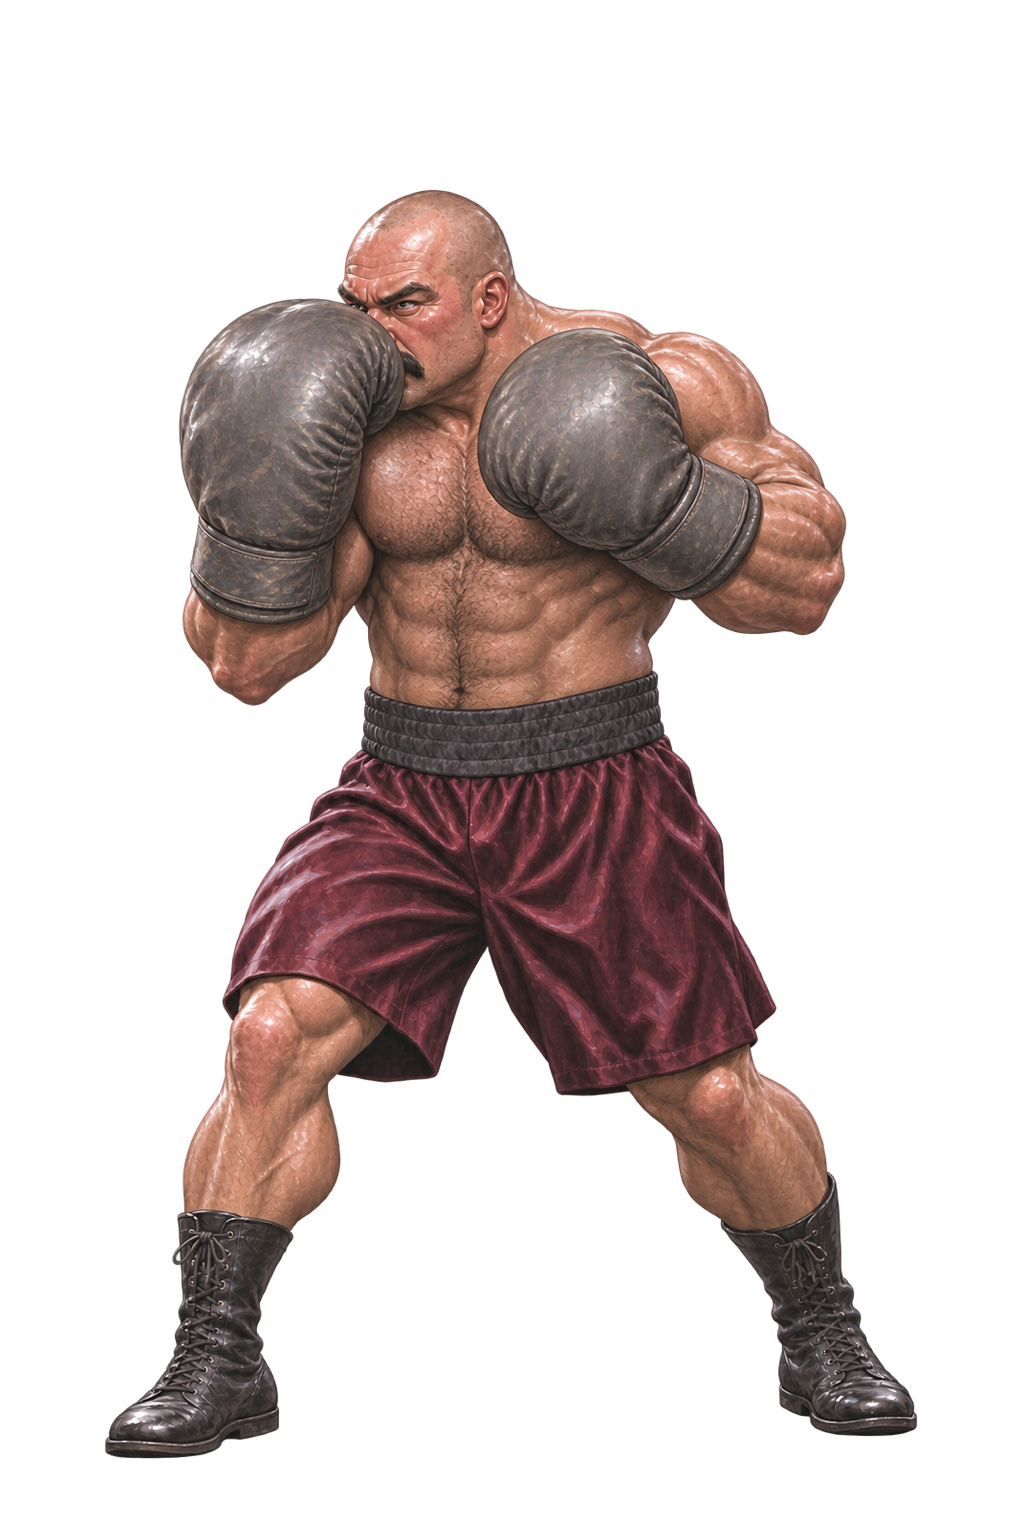
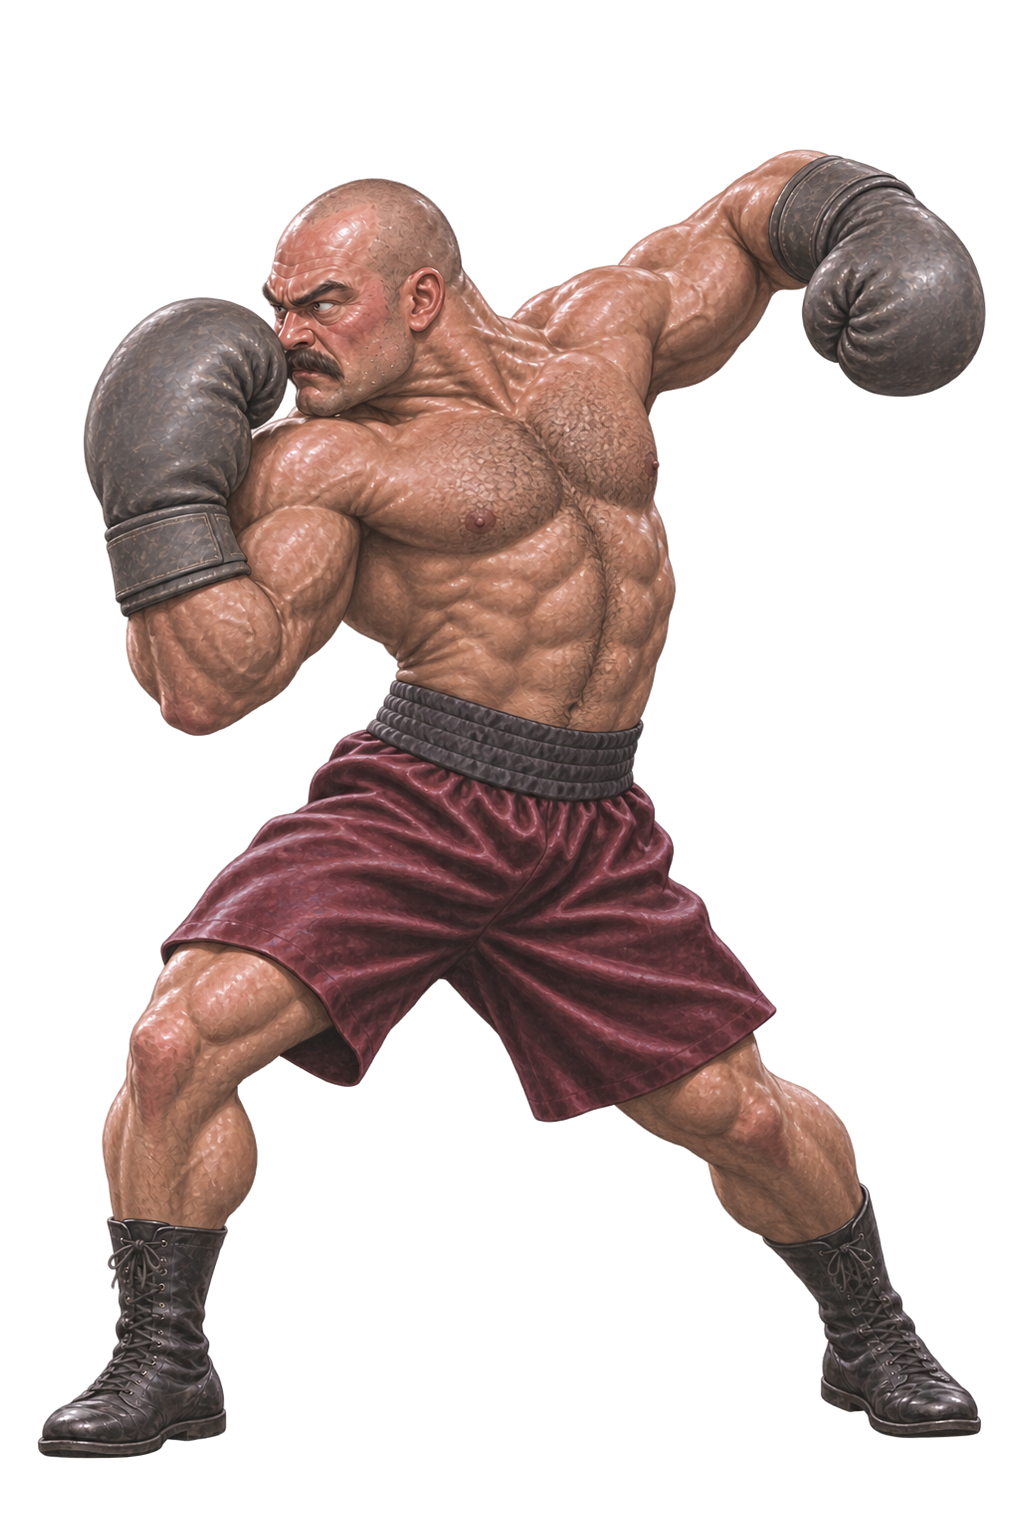
그레고르 공격 예고와 더 헬멧 달아나기 포즈 재생성, 기획서에 M2 반영

diff --git a/assets/prompts_m2_fix.md b/assets/prompts_m2_fix.md
@@ -1,0 +1,46 @@
+# 박치기 챔피언 상대 포즈 교정
+
+TASK 0092-headbutt-m2-fix
+
+`image-creator`의 내장 이미지 생성 도구에서 투명 배경을 지정해 기존 포즈를 각각 한 번 재생성했다. 생성본의 가장자리 알파를 정리하고 인물 비율을 유지하며 `idle.png`의 인물 높이 1310px와 하단 여백 77px에 맞췄다.
+
+| 파일 | 판정 | 재생성 | 확인 사항 |
+| --- | --- | ---: | --- |
+| `assets/char/gregor/telegraph_high.png` | 통과 | 1 | 왼쪽 글러브가 얼굴 앞을 가드하고 오른쪽 글러브가 어깨 뒤로 크게 빠진다. 축소 실루엣에서도 대기 자세와 구별된다. |
+| `assets/char/helmet/retreat.png` | 통과 | 1 | 오른쪽으로 달리면서 왼쪽을 돌아보는 자세를 유지한다. 글자 없는 월계수 장식 금색 벨트, 금색 헬멧, 흰 가운이 다른 포즈와 일치한다. |
+
+`style-reference-sheet.png`는 그림체 참조를 묶은 임시 이미지다. 위쪽 왼쪽은 아저씨 대기 자세, 위쪽 오른쪽은 곽두팔 빈틈 자세, 아래는 동네 체육관 배경이다. 더 헬멧의 첫 번째 참조는 교체 전 `retreat.png`였다.
+
+## `assets/char/gregor/telegraph_high.png`
+
+```text
+Paint one full-body fighting-game sprite of Gregor from references 1–3. Preserve his shaved head, thick dark mustache, massive bare torso, oversized weathered gray leather boxing gloves, burgundy trunks with a charcoal waistband, and black lace-up boxing boots.
+
+Show an exaggerated high-punch wind-up in a left-facing three-quarter side view. Keep his anatomical left glove up in front of his face, toward screen left. Twist his upper body back toward screen right against a planted stance. Pull his right elbow far out to screen right and cock the bent right glove well behind his shoulder, clear of the torso outline at shoulder height. Leave visible space between the cocked glove and his head. Keep his eyes and hips aimed left and let his stern face and mustache show beside the guard glove. The silhouette should read immediately as one glove guarding forward and one drawn far back to strike.
+
+Match the semi-realistic comic painting, visible brushwork, slightly exaggerated proportions, believable materials, and hard sports broadcast lighting of the references. Fit the whole figure on a true transparent 1024 × 1536 PNG canvas, with character height matching the idle and the lowest sole about 5% above the bottom. Keep open areas fully transparent, with no floor, shadow, lettering, logos, watermarks, or effect lines.
+
+Input images:
+1. assets/char/gregor/idle.png — exact character identity, costume, proportions, and scale.
+2. assets/char/gregor/attack_high.png — facial features, gloves, and left-facing attack orientation.
+3. assets/char/gregor/stun.png — unobstructed face, shaved head, mustache, and anatomy.
+4. assets/char/gwak/telegraph_high.png — painted style and exaggerated rear-arm wind-up silhouette.
+5. style-reference-sheet.png — assets/char/ajeossi/idle.png, assets/char/gwak/stun.png, and assets/bg/dong_gym.jpg for brushwork, materials, and lighting only.
+```
+
+## `assets/char/helmet/retreat.png`
+
+```text
+Edit the first sprite as the exact same full-body The Helmet. Preserve the three-quarter rear running pose, empty pumping hands, and wind-swept robe. His back stays toward the viewer as his torso, hips, and boots flee toward screen right. Only his helmet turns back toward screen left, with the intact opaque black visor visible. Match the gold full-face helmet, white gold-trimmed robe, and white gold-trimmed boots to references 2 and 3.
+
+Replace the visible brown waist band with the large blank gold championship belt in references 2 and 3. Show the same hammered gold center medallion with its raised laurel border foreshortened around the forward hip. Wrap broad hammered gold side plates across the visible waist so the belt reads clearly as gold in this rear view. Keep the belt fitted to the running figure and leave all plates free of lettering and logos.
+
+Match the references' semi-realistic comic painting, visible brushwork, believable materials, and hard sports broadcast lighting. Fit the entire figure in a true transparent 1024 × 1536 portrait PNG, close to idle height with the lowest boot sole about 5% above the bottom. Keep open areas fully transparent, with no floor, shadow, text, watermarks, or effect lines.
+
+Input images:
+1. assets/char/helmet/retreat.png — exact rear running pose, viewpoint, empty hands, and silhouette to preserve.
+2. assets/char/helmet/idle.png — exact character, gold championship belt, helmet and visor, white robe, boots, and scale.
+3. assets/char/helmet/telegraph_high.png — gold championship belt, helmet and visor, and white robe continuity.
+4. assets/char/gwak/telegraph_high.png — painted anatomy and brushwork only.
+5. style-reference-sheet.png — assets/char/ajeossi/idle.png, assets/char/gwak/stun.png, and assets/bg/dong_gym.jpg for brushwork, materials, and lighting only.
+```

diff --git a/기획서.md b/기획서.md
@@ -161,8 +161,21 @@
 |---|---|---|
 | M0 | 그림체 확정(이미지 A단계) | 완료(2026-11-24 승인). 기준 이미지: `assets/char/ajeossi/ref_sheet.png`, `assets/char/gwak/idle.png`, `assets/bg/dong_gym.jpg`. 프롬프트: `assets/prompts_style_test.md` |
 | M1 | 1경기 시제품. 도형으로 먼저 만들고 A·B 이미지로 교체 | 구현 완료(2026-11-24), 사람의 플레이 테스트 대기. 실행: `node serve.mjs` 후 http://localhost:5173/ (시험용 상대는 `?debug=1`). 봇 검증: `node tools/sim.mjs`. 마구 누르기 억제 규칙 등 기획서와 달라진 수치는 `data/skills.json`, `data/opponents.json`이 기준 |
-| M2 | 전체 내용. 상대 7명, 기술 5개, 대진표, 저장 | 1경기부터 엔딩까지 막힘 없이 진행 |
+| M2 | 전체 내용. 상대 7명, 기술 5개, 대진표, 저장 | 구현·이미지 완료(2026-11-24), 사람의 플레이 테스트 대기. 원하는 경기로 바로 가기: `?debug=1&stage=N`(1~7). 상대별 최종 패턴과 수치는 `data/opponents.json`이 기준이고 아래 "M2에서 달라진 규칙" 참고 |
 | M3 | 다듬기. 타격 연출, 효과음, 터치 조작, 난이도 조정 | 처음 하는 사람이 설명 없이 동대회를 통과 |
+
+### M2에서 달라진 규칙
+
+시뮬레이션(`node tools/sim.mjs`)으로 조정한 결과다. 예고를 읽는 봇은 7경기를 모두 이기고, 박치기만 누르는 봇은 210판 중 177판을 진다.
+
+- 마구 누르기 억제(M1): 빨강·파랑 예고 중의 박치기는 막히고, 가드에 막히면 0.45초 휘청이며, 박치기를 내미는 중에 맞으면 피해가 1.5배다. 회피에 성공하면 회피 동작을 박치기로 바로 끊을 수 있다.
+- 마봉춘: 빈틈에도 기본 박치기는 막히고 이환이형의 둘째 타만 들어간다.
+- 고회전: 2연속 콤보는 둘째까지 피해야 빈틈이 생긴다.
+- 엘 프렌테: 속임 공격은 예고 도중에 종류가 바뀌고, 바뀐 뒤에 기본 예고 시간(0.55초)을 온전히 준다.
+- 그레고르: 거의 항상 가드하고 이환이형도 막는다. 결재 박치기로만 가드가 깨진다.
+- 더 헬멧: 멀리서 트로피(빨강)와 볼링공(파랑)을 던지고 다가가면 달아난다. 붙으면 헬멧으로 들이받는다. 헬멧(체력 80)이 있는 동안은 가드가 깨지지 않고 본체 피해가 절반이며, 원거리 박치기 4번으로 깨진다.
+- 결재 박치기: Lv.4부터 스페이스를 길게 누르면 차지, 짧게 누르면 기본 박치기다.
+- 이미지는 시작할 때 전부 받지 않고 경기마다 필요한 것만 받는다. 이미지를 추가하면 `node tools/make-lists.mjs`로 목록을 갱신해야 배포본에 반영된다. 규격이 어긋난 포즈는 `py -3 tools/fix_sprites.py <폴더>`로 맞춘다.
 
 ## 12. 정해야 할 것
 
